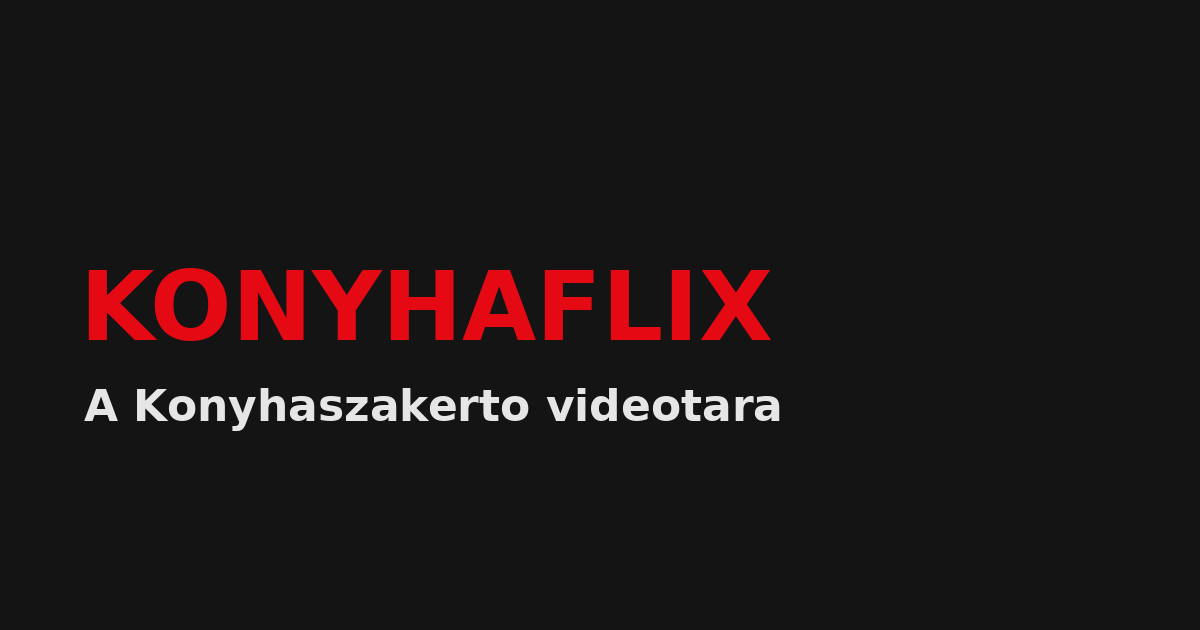
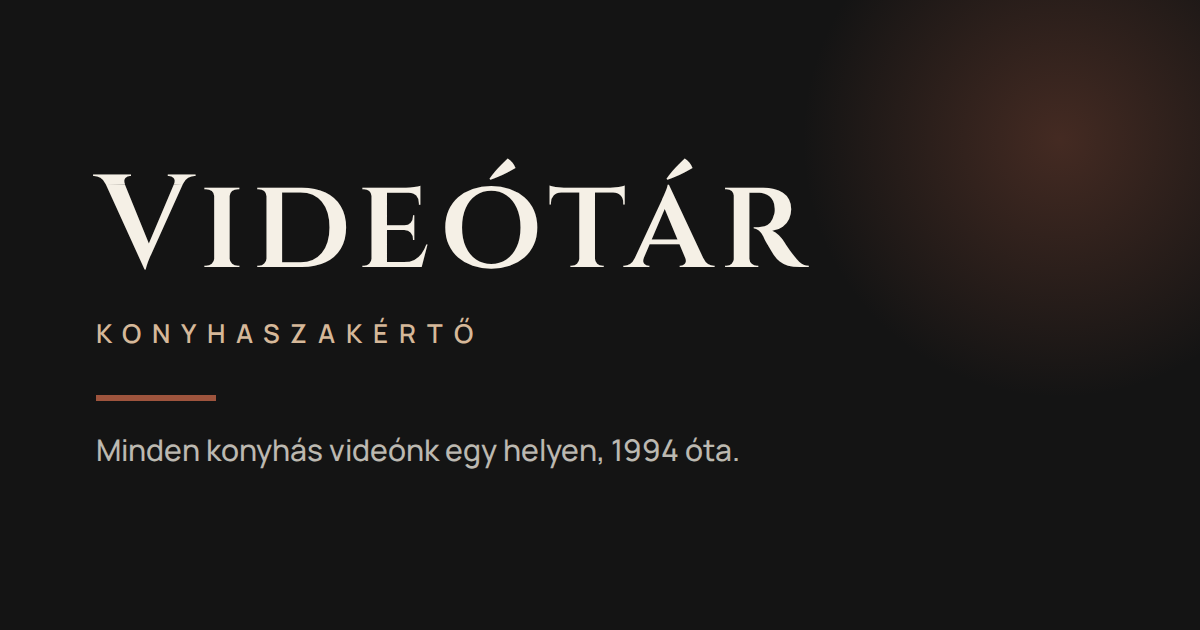
Videotar atnevezes es Konyha Mester arculat
- KonyhaFlix helyett Videotar minden lathato helyen (title, og tagek, Seo, Footer, Header, Player intro)
- Szoveges Wordmark komponens a logo helyett: Videotar (Cinzel) + Konyhaszakerto
- Cinzel + Manrope betuk, terrakotta/puder szinek a Konyha Mester oldalrol
- Videokartya kepeken enyhe pasztell szuro, hoverre elesedik
- Uj og.png es favicon

Claude-Session: https://claude.ai/code/session_01EXyAs9xDset3sJNzoDuxLW

Changed region(s): [[0.0617, 0.2413, 0.6783, 0.5429], [0.7708, 0.0, 1.0, 0.4222], [0.0617, 0.6032, 0.6475, 0.754]]

diff --git a/src/pages/Home.tsx b/src/pages/Home.tsx
@@ -67,9 +67,9 @@ export default function Home() {
             <Link
               to={`/video/${hero.slug}`}
               state={{ backgroundLocation: loc, source: "hero" }}
-              className="flex items-center gap-2 rounded bg-white px-7 py-3 text-lg font-bold text-black transition hover:bg-white/85"
+              className="group/cta flex items-center gap-2 rounded bg-powder px-7 py-3 text-lg font-bold text-ink transition hover:bg-primary hover:text-primary-foreground"
             >
-              <Play className="h-5 w-5 fill-black" /> Kezdd itt
+              <Play className="h-5 w-5 fill-ink transition group-hover/cta:fill-primary-foreground" /> Kezdd itt
             </Link>
             <a
               href="#sorok"
@@ -115,7 +115,7 @@ export default function Home() {
                   target="_blank"
                   rel="noreferrer"
                   onClick={() => track("cta_click", { place: "mid" })}
-                  className="inline-block rounded bg-primary px-8 py-4 text-lg font-bold text-white transition hover:bg-primary/85"
+                  className="inline-block rounded bg-primary px-8 py-4 text-lg font-bold text-primary-foreground transition hover:brightness-110"
                 >
                   Ingyenes konyhatúra időpontot kérek
                 </a>
@@ -128,7 +128,7 @@ export default function Home() {
         {shortBand.length > 0 && (
           <section className="border-y border-white/10 bg-[#0f0f0f] py-10">
             <div className="mb-6 px-4 md:px-12">
-              <p className="mb-1 text-[11px] font-bold uppercase tracking-[0.25em] text-primary">Egy perc alatt</p>
+              <p className="mb-1 text-[11px] font-bold uppercase tracking-[0.25em] text-accent">Egy perc alatt</p>
               <h2 className="text-2xl font-bold text-white md:text-3xl">Rövid válaszok, sorozatokba szedve</h2>
               <p className="mt-1 max-w-2xl text-[13px] leading-snug text-white/55 md:text-sm">
                 Egy kérdés, egy válasz, fél perc. Hat sorozat, mindegyik végignézhető egy kávé alatt.
@@ -173,20 +173,20 @@ export default function Home() {
       <section className="px-4 pb-4 md:px-12">
         <div className="mx-auto grid max-w-6xl gap-4 md:grid-cols-2">
           <div className="flex flex-col items-start rounded border border-white/10 bg-[#181818] p-8 transition hover:border-white/30">
-            <h3 className="mb-2 text-xl font-bold text-white md:text-2xl">Nincs időd hosszú videóra?</h3>
+            <h3 className="mb-2 font-display text-xl font-bold text-white md:text-2xl">Nincs időd hosszú videóra?</h3>
             <p className="mb-6 flex-grow text-sm text-white/60 md:text-base">
               Egy perc alatt egy kérdés, egy válasz. Görgetsz, és jön a következő.
             </p>
             <Link
               to="/shorts"
-              className="flex items-center gap-2 rounded bg-white px-7 py-3 font-bold text-black transition hover:bg-white/85"
+              className="flex items-center gap-2 rounded bg-powder px-7 py-3 font-bold text-ink transition hover:bg-primary hover:text-primary-foreground"
             >
               <Zap className="h-5 w-5" /> Rövid videók
             </Link>
           </div>
           <div className="flex flex-col items-start rounded bg-primary p-8">
-            <h3 className="mb-2 text-xl font-bold text-white md:text-2xl">Gyere el a konyhatúrára</h3>
-            <p className="mb-6 flex-grow text-sm text-white/90 md:text-base">
+            <h3 className="mb-2 font-display text-xl font-bold text-primary-foreground md:text-2xl">Gyere el a konyhatúrára</h3>
+            <p className="mb-6 flex-grow text-sm text-primary-foreground/90 md:text-base">
               Fél óra a budaörsi bemutatóteremben: rejtett tárolók, ergonómia, anyagok élőben.
             </p>
             <a
@@ -194,7 +194,7 @@ export default function Home() {
               target="_blank"
               rel="noreferrer"
               onClick={() => track("cta_click", { place: "home-end" })}
-              className="rounded bg-black px-7 py-3 font-bold text-white transition hover:bg-black/80"
+              className="rounded bg-ink px-7 py-3 font-bold text-powder transition hover:bg-ink/80"
             >
               Időpontot foglalok
             </a>

diff --git a/src/components/Player.tsx b/src/components/Player.tsx
@@ -6,7 +6,7 @@ import { loadYT, PLAYER_VARS, thumb, fmt } from "../lib/yt";
 import { setProgress, resumeAt } from "../lib/progress";
 import { track, markWatched } from "../lib/track";
 import { reportWatch } from "../lib/ghl";
-import { LOGO_KONYHAFLIX } from "../lib/brand";
+import Wordmark from "./Wordmark";
 
 const COUNTDOWN = 8;
 
@@ -27,7 +27,7 @@ export default function Player({ video, queue, source, vertical, onChange, onClo
   const [count, setCount] = useState(COUNTDOWN);
   const [cancelled, setCancelled] = useState(false);
   const [resume, setResume] = useState(0);
-  // A KonyhaFlix bevezeto csak az elso inditasnal fut le, hogy ne lassitsa a tovabblepest.
+  // A Videotar bevezeto csak az elso inditasnal fut le, hogy ne lassitsa a tovabblepest.
   const [intro, setIntro] = useState(() => {
     if (typeof window === "undefined") return false;
     if (sessionStorage.getItem("kf_intro")) return false;
@@ -145,7 +145,7 @@ export default function Player({ video, queue, source, vertical, onChange, onClo
             className="pointer-events-none absolute inset-0 z-50 flex items-center justify-center bg-black kf-intro"
             onAnimationEnd={() => setIntro(false)}
           >
-            <img src={LOGO_KONYHAFLIX} alt="KonyhaFlix" className="kf-intro-word w-2/3 max-w-md object-contain" />
+            <Wordmark size="lg" className="kf-intro-word" />
           </div>
         )}
 
@@ -163,7 +163,7 @@ export default function Player({ video, queue, source, vertical, onChange, onClo
           <div className="absolute bottom-16 left-1/2 z-20 -translate-x-1/2 rounded bg-black/85 px-4 py-2 text-sm text-white shadow-lg">
             <span className="mr-3">Onnan folytatod, ahol abbahagytad ({fmt(resume)}).</span>
             <button
-              className="font-semibold text-primary underline"
+              className="font-semibold text-accent underline"
               onClick={() => {
                 player.current?.seekTo(0, true);
                 setResume(0);

diff --git a/index.html b/index.html
@@ -4,19 +4,20 @@
     <meta charset="UTF-8" />
     <meta name="viewport" content="width=device-width, initial-scale=1.0" />
     <link rel="icon" href="/favicon.png" />
-    <title>KonyhaFlix, a Konyhaszakértő videótára</title>
+    <title>Konyhaszakértő Videótár</title>
     <meta name="description" content="Konyhák, gépek, méretek és a hibák, amiket a legtöbben elkövetnek. Több mint 190 videó a Konyhaszakértőtől, 1994 óta." />
-    <meta property="og:site_name" content="KonyhaFlix" />
+    <meta property="og:site_name" content="Konyhaszakértő Videótár" />
     <meta property="og:locale" content="hu_HU" />
     <meta property="og:type" content="website" />
-    <meta property="og:title" content="KonyhaFlix, a Konyhaszakértő videótára" />
+    <meta property="og:title" content="Konyhaszakértő Videótár" />
     <meta property="og:description" content="Indíts el egyet, a következőt már betesszük." />
     <meta property="og:image" content="/og.png" />
     <meta name="twitter:card" content="summary_large_image" />
     <link rel="preconnect" href="https://www.youtube.com" />
     <link rel="preconnect" href="https://i.ytimg.com" />
+    <link rel="preconnect" href="https://fonts.googleapis.com" />
     <link rel="preconnect" href="https://fonts.gstatic.com" crossorigin />
-    <link href="https://fonts.googleapis.com/css2?family=Inter:wght@400;600;700;800&display=swap" rel="stylesheet" />
+    <link href="https://fonts.googleapis.com/css2?family=Cinzel:wght@400;500;600;700&family=Manrope:wght@400;500;600;700;800&display=swap" rel="stylesheet" />
 
     <!-- GOOGLE TAG MANAGER: ide jon a GTM-XXXXXXX konteneres kod.
          Amig ez ures, a dataLayer esemenyek nem mennek sehova. -->

diff --git a/src/pages/Kerdoiv.tsx b/src/pages/Kerdoiv.tsx
@@ -93,7 +93,7 @@ export default function Kerdoiv() {
         <p className="mb-8 text-white/60">Addig is ezt neked válogattuk:</p>
         <Link
           to={sug.href}
-          className="inline-block rounded bg-primary px-7 py-3 text-lg font-bold text-white transition hover:bg-primary/85"
+          className="inline-block rounded bg-primary px-7 py-3 text-lg font-bold text-primary-foreground transition hover:brightness-110"
         >
           {sug.label}
         </Link>
@@ -128,7 +128,7 @@ export default function Kerdoiv() {
                     onClick={() => setA((p) => ({ ...p, [q.key]: o }))}
                     className={`rounded-full border px-4 py-2 text-sm transition ${
                       a[q.key] === o
-                        ? "border-primary bg-primary font-bold text-white"
+                        ? "border-primary bg-primary font-bold text-primary-foreground"
                         : "border-white/25 text-white/75 hover:border-white/60 hover:text-white"
                     }`}
                   >
@@ -149,12 +149,12 @@ export default function Kerdoiv() {
         ))}
       </div>
 
-      {err && <p className="mt-6 text-sm font-semibold text-primary">{err}</p>}
+      {err && <p className="mt-6 text-sm font-semibold text-accent">{err}</p>}
 
       <button
         onClick={submit}
         disabled={busy}
-        className="mt-8 w-full rounded bg-primary px-7 py-4 text-lg font-bold text-white transition hover:bg-primary/85 disabled:opacity-50"
+        className="mt-8 w-full rounded bg-primary px-7 py-4 text-lg font-bold text-primary-foreground transition hover:brightness-110 disabled:opacity-50"
       >
         {busy ? "Küldés…" : "Elküldöm"}
       </button>

diff --git a/src/pages/VideoPage.tsx b/src/pages/VideoPage.tsx
@@ -31,7 +31,7 @@ export default function VideoPage({ modal }: { modal?: boolean }) {
     return (
       <div className="px-4 pt-32 text-center text-white/70 md:px-12">
         <p className="mb-4">Ez a videó nincs meg.</p>
-        <Link to="/" className="text-primary underline">
+        <Link to="/" className="text-accent underline">
           Vissza a kezdőlapra
         </Link>
       </div>
@@ -70,7 +70,7 @@ export default function VideoPage({ modal }: { modal?: boolean }) {
         {video.series && (
           <p className="mb-3 text-sm text-white/60">
             {episodeLabel(video) ? `${episodeLabel(video)}, ` : ""}
-            <Link to={`/sorozat/${video.series}`} className="text-primary hover:underline">
+            <Link to={`/sorozat/${video.series}`} className="text-accent hover:underline">
               {SERIES[video.series]}
             </Link>
             {eps.length > 1 && ` (${eps.length} rész)`}
@@ -100,7 +100,7 @@ export default function VideoPage({ modal }: { modal?: boolean }) {
             target="_blank"
             rel="noreferrer"
             onClick={() => track("cta_click", { place: "player", video_id: video.id })}
-            className="inline-block whitespace-nowrap rounded bg-primary px-5 py-2.5 text-sm font-bold text-white transition hover:bg-primary/85"
+            className="inline-block whitespace-nowrap rounded bg-primary px-5 py-2.5 text-sm font-bold text-primary-foreground transition hover:brightness-110"
           >
             Konyhatúra időpont
           </a>

diff --git a/src/components/Header.tsx b/src/components/Header.tsx
@@ -2,7 +2,7 @@ import { useEffect, useState } from "react";
 import { Link, NavLink, useNavigate } from "react-router-dom";
 import { Search } from "lucide-react";
 import { outbound, track } from "../lib/track";
-import { LOGO_KONYHAFLIX } from "../lib/brand";
+import Wordmark from "./Wordmark";
 
 const TURA = "https://konyhatura.konyhaszakerto.hu";
 
@@ -33,8 +33,8 @@ export default function Header() {
       }`}
     >
       <div className="flex min-w-0 items-center gap-6">
-        <Link to="/" className="shrink-0" aria-label="KonyhaFlix, kezdőlap">
-          <img src={LOGO_KONYHAFLIX} alt="KonyhaFlix" className="h-7 w-auto object-contain md:h-9" />
+        <Link to="/" className="shrink-0" aria-label="Videótár, kezdőlap">
+          <Wordmark />
         </Link>
         <nav className="hidden items-center gap-5 text-sm text-white/85 lg:flex">
           {links.map((l) => (
@@ -77,7 +77,7 @@ export default function Header() {
           target="_blank"
           rel="noreferrer"
           onClick={() => track("cta_click", { place: "header" })}
-          className="whitespace-nowrap rounded bg-primary px-3 py-1.5 text-xs font-bold text-white transition hover:bg-primary/85 md:px-4 md:py-2 md:text-sm"
+          className="whitespace-nowrap rounded bg-primary px-3 py-1.5 text-xs font-bold text-primary-foreground transition hover:brightness-110 md:px-4 md:py-2 md:text-sm"
         >
           Konyhatúra időpont
         </a>

diff --git a/src/index.css b/src/index.css
@@ -9,8 +9,13 @@
   :root {
     --background: 0 0% 8%;
     --foreground: 0 0% 100%;
-    --primary: 357 92% 47%;
-    --primary-foreground: 0 0% 100%;
+    /* Arculat a Konyha Mester oldalrol: terrakotta fo szin, pudervilagos szoveg rajta. */
+    --primary: 14 44% 43%;
+    --primary-foreground: 39 44% 93%;
+    --powder: 39 44% 93%;
+    --ink: 65 19% 13%;
+    /* Bronz kiemeles sotet hatteren. A terrakotta kis szovegnek tul sotet ide. */
+    --accent: 30 43% 72%;
     --muted: 0 0% 20%;
     --muted-foreground: 0 0% 70%;
     --border: 0 0% 20%;
@@ -19,12 +24,21 @@
   * { border-color: hsl(var(--border)); }
   body { @apply bg-background text-foreground antialiased; }
   h1, h2, h3 { text-wrap: balance; }
+  h1, h2 { @apply font-display; }
 }
 
 @layer utilities {
   .hide-scrollbar { -ms-overflow-style: none; scrollbar-width: none; }
   .hide-scrollbar::-webkit-scrollbar { display: none; }
 }
+
+/* Videokartya kepe: enyhe pasztell tonus, hoverre elesedik. */
+.kf-thumb {
+  filter: saturate(0.72) contrast(0.9) brightness(1.06) sepia(0.12);
+  transition: filter 400ms ease;
+}
+.group\/card:hover .kf-thumb,
+.group\/card:focus-visible .kf-thumb { filter: none; }
 
 /* A lejatszo bevezeto animacioja. Rovid, mert a nezesbol vesz el. */
 @keyframes kfFade { 0%, 62% { opacity: 1; } 100% { opacity: 0; } }

diff --git a/src/components/VideoCard.tsx b/src/components/VideoCard.tsx
@@ -41,7 +41,7 @@ export default function VideoCard({ video, rowIds, source, vertical, archive }: 
           vertical ? "aspect-[9/16]" : "aspect-video"
         } ${archive && !hover ? "sepia-[.25]" : ""}`}
       >
-        <img src={thumb(video.id)} alt="" loading="lazy" className="absolute inset-0 h-full w-full object-cover" />
+        <img src={thumb(video.id)} alt="" loading="lazy" className="kf-thumb absolute inset-0 h-full w-full object-cover" />
 
         {hover && (
           <iframe
@@ -62,7 +62,7 @@ export default function VideoCard({ video, rowIds, source, vertical, archive }: 
           </span>
         )}
         {episodeLabel(video) && (
-          <span className="absolute left-2 top-2 z-10 rounded bg-primary px-1.5 py-0.5 text-[10px] font-bold uppercase text-white">
+          <span className="absolute left-2 top-2 z-10 rounded bg-primary px-1.5 py-0.5 text-[10px] font-bold uppercase text-primary-foreground">
             {episodeLabel(video)}
           </span>
         )}

diff --git a/src/components/Wordmark.tsx b/src/components/Wordmark.tsx
@@ -1,0 +1,29 @@
+// Szoveges logo, amig nincs uj grafikus Videotar logo.
+// Ha megjon a kep, eleg ezt a komponenst egy <img>-re cserelni, a hivo helyek maradhatnak.
+
+interface Props {
+  size?: "sm" | "lg";
+  className?: string;
+}
+
+export default function Wordmark({ size = "sm", className = "" }: Props) {
+  const lg = size === "lg";
+  return (
+    <span className={`inline-flex flex-col leading-none ${lg ? "items-center" : "items-start"} ${className}`}>
+      <span
+        className={`font-display font-semibold text-powder ${
+          lg ? "text-5xl tracking-[0.06em] md:text-7xl" : "text-xl tracking-[0.06em] md:text-2xl"
+        }`}
+      >
+        Videótár
+      </span>
+      <span
+        className={`font-sans font-semibold uppercase text-accent ${
+          lg ? "mt-3 text-xs tracking-[0.4em] md:text-sm" : "mt-1 text-[9px] tracking-[0.32em] md:text-[10px]"
+        }`}
+      >
+        Konyhaszakértő
+      </span>
+    </span>
+  );
+}

diff --git a/tailwind.config.js b/tailwind.config.js
@@ -8,10 +8,16 @@ export default {
         foreground: "hsl(var(--foreground))",
         primary: { DEFAULT: "hsl(var(--primary))", foreground: "hsl(var(--primary-foreground))" },
         muted: { DEFAULT: "hsl(var(--muted))", foreground: "hsl(var(--muted-foreground))" },
+        accent: "hsl(var(--accent))",
+        powder: "hsl(var(--powder))",
+        ink: "hsl(var(--ink))",
         border: "hsl(var(--border))",
       },
       borderRadius: { lg: "var(--radius)", md: "calc(var(--radius) - 2px)", sm: "calc(var(--radius) - 4px)" },
-      fontFamily: { sans: ["Inter", "ui-sans-serif", "system-ui", "sans-serif"] },
+      fontFamily: {
+        sans: ["Manrope", "ui-sans-serif", "system-ui", "sans-serif"],
+        display: ["Cinzel", "ui-serif", "Georgia", "serif"],
+      },
     },
   },
   plugins: [require("tailwindcss-animate")],

diff --git a/src/components/Footer.tsx b/src/components/Footer.tsx
@@ -16,7 +16,7 @@ export default function Footer() {
             target="_blank"
             rel="noreferrer"
             onClick={() => track("cta_click", { place: "footer" })}
-            className="inline-block rounded bg-primary px-7 py-3 font-bold text-white transition hover:bg-primary/85"
+            className="inline-block rounded bg-primary px-7 py-3 font-bold text-primary-foreground transition hover:brightness-110"
           >
             Időpontot foglalok
           </a>
@@ -46,7 +46,7 @@ export default function Footer() {
           </div>
         </div>
 
-        <p className="mt-8 text-xs text-white/35">KonyhaFlix, a Konyhaszakértő videótára.</p>
+        <p className="mt-8 text-xs text-white/35">Konyhaszakértő Videótár. Minden konyhás videónk egy helyen.</p>
       </div>
     </footer>
   );

diff --git a/src/pages/Lists.tsx b/src/pages/Lists.tsx
@@ -87,11 +87,11 @@ function Empty() {
       <p className="mb-3">Erre most nincs videónk.</p>
       <p className="text-sm">
         Írd meg, miről csináljunk:{" "}
-        <a className="text-primary hover:underline" href="mailto:erdeklodes@konyhaszakerto.hu">
+        <a className="text-accent hover:underline" href="mailto:erdeklodes@konyhaszakerto.hu">
           erdeklodes@konyhaszakerto.hu
         </a>
       </p>
-      <Link to="/" className="mt-5 inline-block rounded bg-primary px-5 py-2 text-sm font-bold text-white">
+      <Link to="/" className="mt-5 inline-block rounded bg-primary px-5 py-2 text-sm font-bold text-primary-foreground">
         Vissza a kezdőlapra
       </Link>
     </div>
